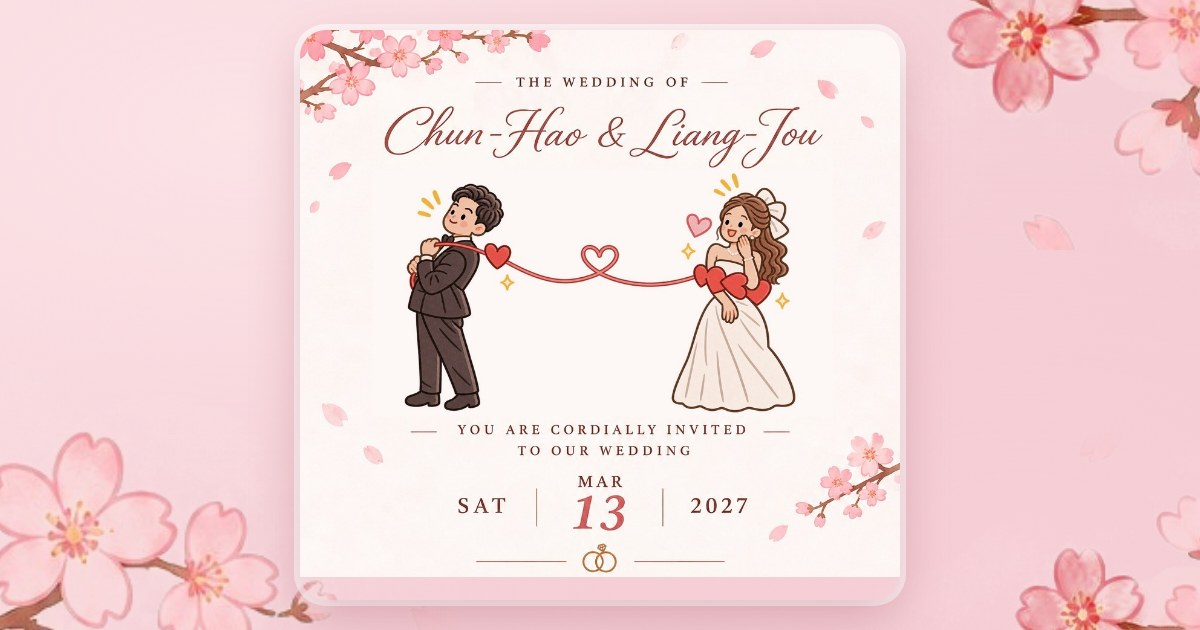
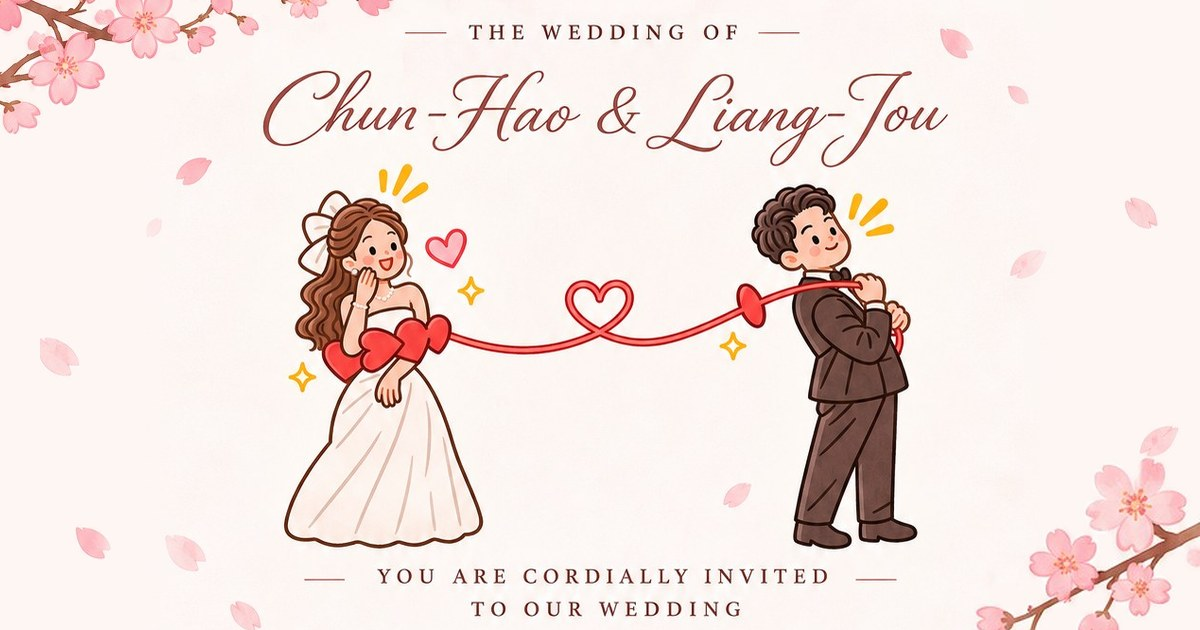
Fuller link preview image without date
Claude-Session: https://claude.ai/code/session_01T9F5Wai4TNnooEUEQP2Xdp

diff --git a/index.html b/index.html
@@ -9,7 +9,7 @@
 <meta property="og:url" content="https://br495685.github.io/wedding-calendar/">
 <meta property="og:title" content="王俊皓 ♥ 陳良柔 婚禮邀請">
 <meta property="og:description" content="2027.3.13（六）午宴｜台北文華東方酒店 8F 文華閣｜敬請於 12/31 前回覆 ♡">
-<meta property="og:image" content="https://br495685.github.io/wedding-calendar/og.jpg?v=2">
+<meta property="og:image" content="https://br495685.github.io/wedding-calendar/og.jpg?v=3">
 <meta property="og:image:width" content="1200">
 <meta property="og:image:height" content="630">
 <meta name="twitter:card" content="summary_large_image">
